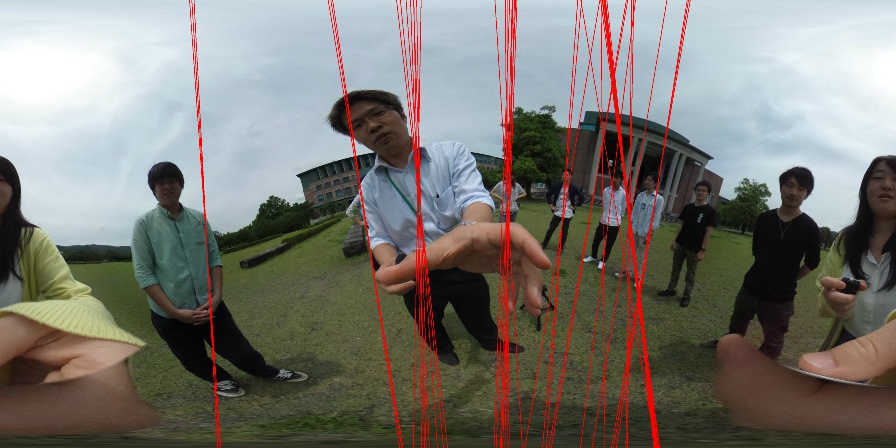
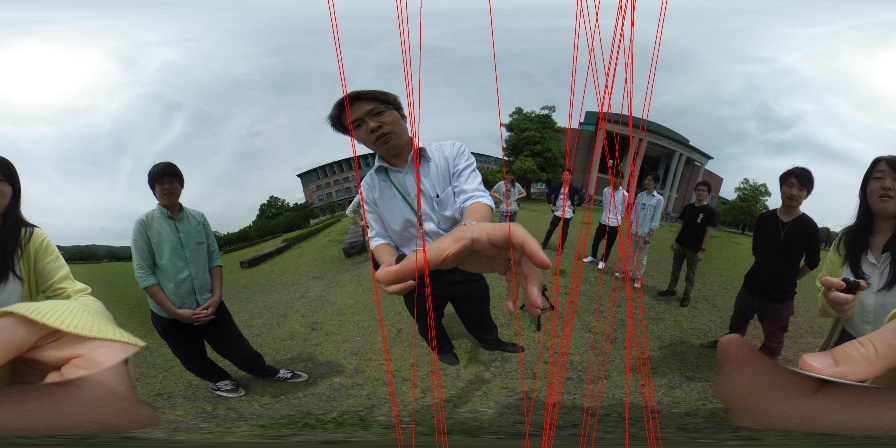
commit

diff --git a/HoughLine/neo_hough_line.py b/HoughLine/neo_hough_line.py
@@ -15,7 +15,8 @@ lines = cv2.HoughLines(edges,1,math.pi/360,line_len)
 
 degree_range = 10
 
-line_xyd = []
+line_xyd_left = []
+line_xyd_right = []
 
 range_line = width
 
@@ -34,55 +35,114 @@ for i in range(0,len(lines)):
 
         if degree < degree_range:
             degree = degree + 10
-            line_xyd.append((x1,y1,x2,y2,degree,x0))
+            line_xyd_right.append((x1,y1,x2,y2,degree,x0))
         elif degree > 180-degree_range:
             if degree == 180:
                 degree = 10
             else:
                 degree = degree - 170
-            line_xyd.append((x1,y1,x2,y2,degree,x0))
+            line_xyd_left.append((x1,y1,x2,y2,degree,x0))
 
-sorted(line_xyd, key=itemgetter(5))
+line_xyd_right = sorted(line_xyd_right, key=lambda x: float(x[5]))
+line_xyd_left = sorted(line_xyd_left,  key=lambda x: float(x[5]))
 
-print (line_xyd)
+diff_deg_lim = 5
+diff_x0_lim  = 20
 
-for i in range(0,len(line_xyd)):
-    x1 = line_xyd[i][0]
-    y1 = line_xyd[i][1]
-    x2 = line_xyd[i][2]
-    y2 = line_xyd[i][3]
-    degree = line_xyd[i][4]
-    x0 = line_xyd[i][5]
+draw_line = []
+
+for i in range(0,len(line_xyd_right)):
+    x1 = line_xyd_right[i][0]
+    y1 = line_xyd_right[i][1]
+    x2 = line_xyd_right[i][2]
+    y2 = line_xyd_right[i][3]
+    degree = line_xyd_right[i][4]
+    x0 = line_xyd_right[i][5]
     diff_deg = 0
     diff_x0 = 0
     diff_flag = False
-    if (i+1 < len(line_xyd) and i-1 >= 0):
-        diff_deg = abs(degree - line_xyd[i+1][4])
-        diff_deg += abs(degree - line_xyd[i-1][4])
-        diff_x0 = abs(x0 - line_xyd[i+1][5])
-        diff_x0 += abs(x0 - line_xyd[i-1][5])
-    if diff_deg < 10 and diff_x0 < 500:
-        diff_flag = True
 
-    if (i+2 < len(line_xyd)):
-        diff_deg = abs(degree - line_xyd[i+1][4])
-        diff_deg += abs(degree - line_xyd[i+2][4])
-        diff_x0 = abs(x0 - line_xyd[i+1][5])
-        diff_x0 += abs(x0 - line_xyd[i+2][5])
-    if diff_deg < 10 and diff_x0 < 500:
-        diff_flag = True
+    if (i+1 < len(line_xyd_right)):
+        diff_deg = abs(degree - line_xyd_right[i+1][4])
+        diff_x0  = abs(x0 - line_xyd_right[i+1][5])
+    if diff_deg < diff_deg_lim and diff_x0 < diff_x0_lim:
+        if (i+2 < len(line_xyd_right)):
+            diff_deg = abs(degree - line_xyd_right[i+2][4])
+            diff_x0  = abs(x0 - line_xyd_right[i+2][5])
+            if diff_deg < diff_deg_lim and diff_x0 < diff_x0_lim:
+                diff_flag = True
+        if (i-1 >= 0):
+            diff_deg = abs(degree - line_xyd_right[i-1][4])
+            diff_x0 = abs(x0 - line_xyd_right[i-1][5])
+            if diff_deg < diff_deg_lim and diff_x0 < diff_x0_lim:
+                diff_flag = True
 
-    if (i-2 >= 0):
-        diff_deg = abs(degree - line_xyd[i-1][4])
-        diff_deg += abs(degree - line_xyd[i-2][4])
-        diff_x0 = abs(x0 - line_xyd[i-1][5])
-        diff_x0 += abs(x0 - line_xyd[i-2][5])
-    if diff_deg < 10 and diff_x0 < 500:
-        diff_flag = True
+    if (i-1 >= 0):
+        diff_deg = abs(degree - line_xyd_right[i-1][4])
+        diff_x0 = abs(x0 - line_xyd_right[i-1][5])
+    if diff_deg < diff_deg_lim and diff_x0 < diff_x0_lim:
+        if (i-2 >= 0):
+            diff_deg = abs(degree - line_xyd_right[i-2][4])
+            diff_x0  = abs(x0 - line_xyd_right[i-2][5])
+            if diff_deg < diff_deg_lim and diff_x0 < diff_x0_lim:
+                diff_flag = True
+        if (i+1 < len(line_xyd_right)):
+            diff_deg = abs(degree - line_xyd_right[i+1][4])
+            diff_x0  = abs(x0 - line_xyd_right[i+1][5])
+            if diff_deg < diff_deg_lim and diff_x0 < diff_x0_lim:
+                diff_flag = True
+
 
     if diff_flag == False:
+        draw_line.append((x1,y1,x2,y2,degree,x0))
         cv2.line(img,(x1,y1),(x2,y2),(0,0,255),2)
 
+for i in range(0,len(line_xyd_left)):
+    x1 = line_xyd_left[i][0]
+    y1 = line_xyd_left[i][1]
+    x2 = line_xyd_left[i][2]
+    y2 = line_xyd_left[i][3]
+    degree = line_xyd_left[i][4]
+    x0 = line_xyd_left[i][5]
+    diff_deg = 0
+    diff_x0 = 0
+    diff_flag = False
+
+    if (i+1 < len(line_xyd_left)):
+        diff_deg = abs(degree - line_xyd_left[i+1][4])
+        diff_x0 = abs(x0 - line_xyd_left[i+1][5])
+    if diff_deg < diff_deg_lim and diff_x0 < diff_x0_lim:
+        if (i+2 < len(line_xyd_left)):
+            diff_deg = abs(degree - line_xyd_left[i+2][4])
+            diff_x0 = abs(x0 - line_xyd_left[i+2][5])
+            if diff_deg < diff_deg_lim and diff_x0 < diff_x0_lim:
+                diff_flag = True
+        if (i-1 >= 0):
+            diff_deg = abs(degree - line_xyd_left[i-1][4])
+            diff_x0 = abs(x0 - line_xyd_left[i-1][5])
+            if diff_deg < diff_deg_lim and diff_x0 < diff_x0_lim:
+                diff_flag = True
+
+    if (i-1 >= 0):
+        diff_deg = abs(degree - line_xyd_left[i-1][4])
+        diff_x0 = abs(x0 - line_xyd_left[i-1][5])
+    if diff_deg < diff_deg_lim and diff_x0 < diff_x0_lim:
+        if (i-2 >= 0):
+            diff_deg = abs(degree - line_xyd_left[i-2][4])
+            diff_x0 = abs(x0 - line_xyd_left[i-2][5])
+            if diff_deg < diff_deg_lim and diff_x0 < diff_x0_lim:
+                diff_flag = True
+        if (i+1 < len(line_xyd_left)):
+            diff_deg = abs(degree - line_xyd_left[i+1][4])
+            diff_x0 = abs(x0 - line_xyd_left[i+1][5])
+            if diff_deg < diff_deg_lim and diff_x0 < diff_x0_lim:
+                diff_flag = True
+
+    if diff_flag == False:
+        draw_line.append((x1,y1,x2,y2,degree,x0))
+        cv2.line(img,(x1,y1),(x2,y2),(0,0,255),2)
+
+for i in range(0,len(draw_line)):
 
 
 while(1):

diff --git a/HoughLine/hough_normal.py b/HoughLine/hough_normal.py
@@ -13,7 +13,7 @@ line_len = 100
 lines = cv2.HoughLines(edges,1,math.pi/360,line_len)
 
 degree_range = 10
-near_line = 100
+near_line = 0
 near_lined = degree_range/2
 near_x = [-near_line]
 near_y = [-near_line]
@@ -58,8 +58,7 @@ for i in range(0,len(line_xyd)):
     y2 = line_xyd[i][3]
     degree = line_xyd[i][4]
     cv2.line(img,(x1,y1),(x2,y2),(0,0,255),2)
-    print (x1,y1,x2,y2,degree,i)
-
+    
 while(1):
     img = cv2.resize(img, (int(width/4), int(height/4)))
     cv2.imshow("sphere_rotate", img)

diff --git a/HoughLine/hough_lines.py b/HoughLine/hough_lines.py
@@ -2,7 +2,7 @@ import cv2
 import numpy as np
 import math
 
-img = cv2.imread('../image/dist02.jpg')
+img = cv2.imread('../image/square_theta.jpg')
 gray = cv2.cvtColor(img,cv2.COLOR_BGR2GRAY)
 edges = cv2.Canny(gray,50,150,apertureSize = 3)
 
